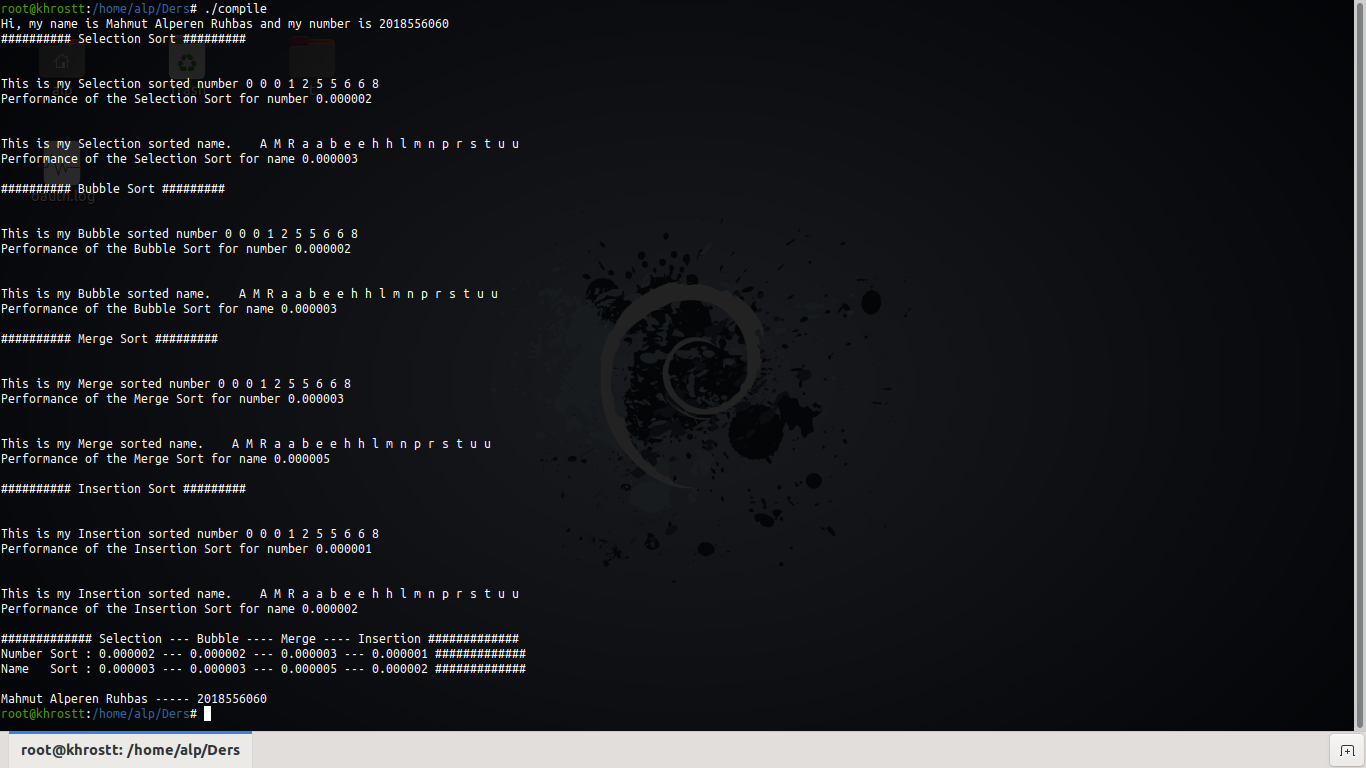
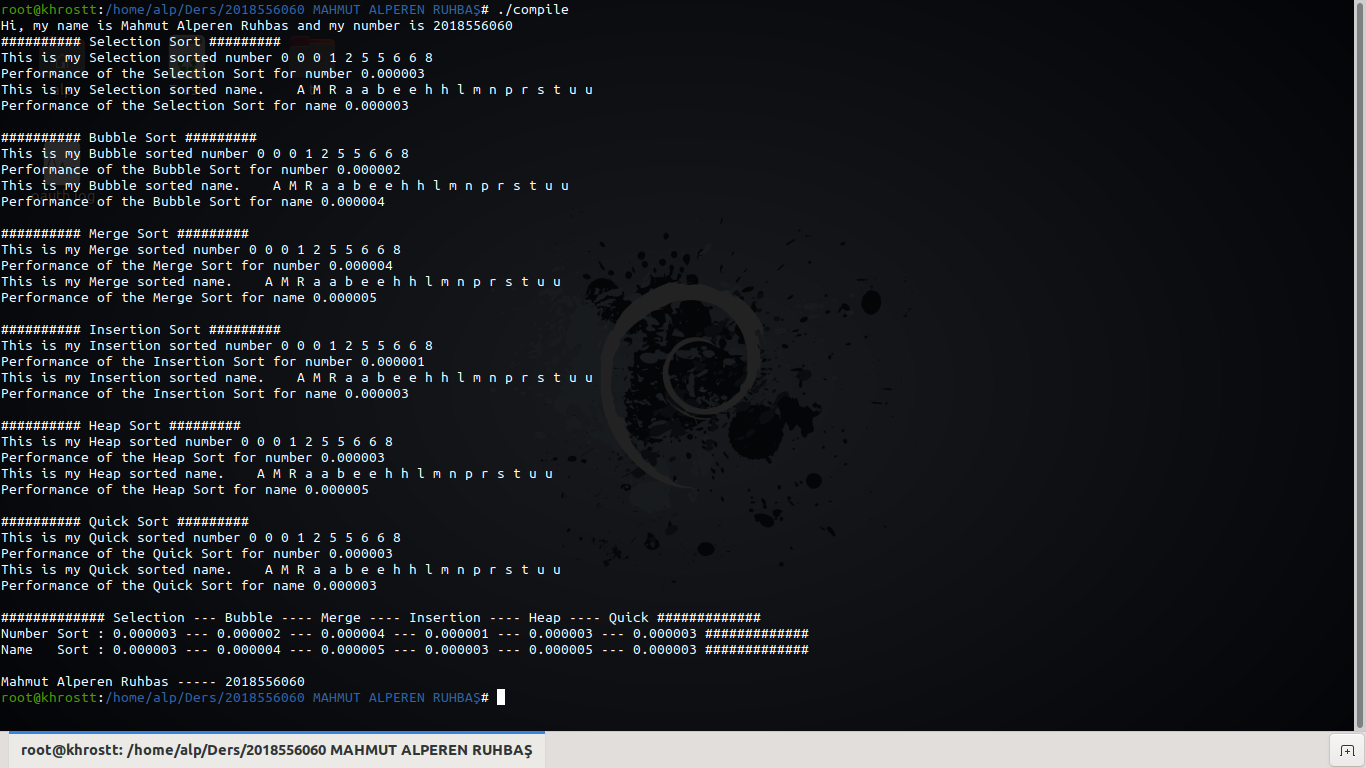
Quick sort and heap sort are added to the C program

diff --git a/Sorting/2018556060 MAHMUT ALPEREN RUHBAŞ/sorting.c b/Sorting/2018556060 MAHMUT ALPEREN RUHBAŞ/sorting.c
@@ -7,12 +7,12 @@
 void number_printer(char number[], int sizeofnum, double timer, char sorttype[])
 {
     printf("########## %s Sort #########", sorttype);
-    printf("\n\n\nThis is my %s sorted number ", sorttype);
+    printf("\nThis is my %s sorted number ", sorttype);
     int k;
     for (k = 0; k < sizeofnum; k++)
         printf("%d ", number[k]);
     putchar('\n');
-    printf("Performance of the %s Sort for number %f \n\n\n", sorttype, (timer / CLOCKS_PER_SEC));
+    printf("Performance of the %s Sort for number %f \n", sorttype, (timer / CLOCKS_PER_SEC));
 }
                                                                 void name_printer(char myname[], int sizeofname, double timer, char sorttype[])
                                                                 {
@@ -143,12 +143,78 @@ void base_merge(char unsorted[], int left, int middle, int right) {
                                                             unsorted[l + 1] = check;
                                                         }
                                                     }
+
+                                                            /////////////////// Heap Sort Function
+void base_heap(char unsorted[], int allsize, int k ) {
+	int temp; int largeone = k; int left = 2 * k + 1; int right = 2 * k + 2;
+	if (unsorted[left] > unsorted[largeone] && left < allsize) 
+	{
+		largeone = left;	
+	}
+	if (unsorted[right] > unsorted[largeone] && right < allsize) 
+	{
+		largeone = right;	
+	}
+	if (largeone != k) 
+	{
+        temp = unsorted[k];
+        unsorted[k] = unsorted[largeone];
+        unsorted[largeone] = temp;
+		base_heap(unsorted, allsize, largeone);
+	}
+}
+                                                    void heap_sort(char unsorted[], int allsize){
+                                                        int l, temp;
+                                                        for(l= allsize/2-1; l>=0 ;l--)
+                                                        {
+                                                            base_heap(unsorted, allsize, l);
+                                                        }
+                                                        int k;
+                                                        for (k = allsize-1; k > 0 ;k--)
+                                                        {
+                                                            temp = unsorted[0];
+                                                            unsorted[0] = unsorted[k];
+                                                            unsorted[k] = temp;
+                                                            base_heap(unsorted, k, 0);
+                                                        }
+                                                    }
+                                                            /////////////////// Quick Sort Function
+void quick_sort(char unsorted[],int first,int last){
+    int k, l, pivot, temp;
+    pivot=first;
+    if(last>first){
+        pivot=first;
+        k=first;
+        l=last;
+        while (k<l){
+            while (unsorted[k]<=unsorted[pivot] && k<last && l>k)
+            {
+                k++;
+            }
+            while (unsorted[l]>=unsorted[pivot] && l>=first && l>=k)
+            {
+                l--;
+            }
+            if (l>k)
+            { 
+                temp=unsorted[k];
+                unsorted[k]=unsorted[l];
+                unsorted[l]=temp;
+            }
+        }
+        temp=unsorted[l];
+        unsorted[l]=unsorted[pivot];
+        unsorted[pivot]=temp;
+        quick_sort(unsorted,first,l-1);
+        quick_sort(unsorted,l+1,last);
+    }
+}
                                                             /////////////////// Total Performance List
-void performance_list(double selection, double bubble, double merge, double invertion, double selection2, double bubble2, double merge2, double invertion2)
+void performance_list(double selection, double bubble, double merge, double invertion, double heap, double quick, double selection2, double bubble2, double merge2, double invertion2, double heap2, double quick2)
 {
-    printf("############# Selection --- Bubble ---- Merge ---- Insertion #############\n");
-    printf("Number Sort : %f --- %f --- %f --- %f #############\n", (selection / CLOCKS_PER_SEC), (bubble / CLOCKS_PER_SEC), (merge / CLOCKS_PER_SEC), (invertion / CLOCKS_PER_SEC));
-    printf("Name   Sort : %f --- %f --- %f --- %f #############\n", (selection2 / CLOCKS_PER_SEC), (bubble2 / CLOCKS_PER_SEC), (merge2 / CLOCKS_PER_SEC), (invertion2 / CLOCKS_PER_SEC));
+    printf("############# Selection --- Bubble ---- Merge ---- Insertion ---- Heap ---- Quick #############\n");
+    printf("Number Sort : %f --- %f --- %f --- %f --- %f --- %f #############\n", (selection / CLOCKS_PER_SEC), (bubble / CLOCKS_PER_SEC), (merge / CLOCKS_PER_SEC), (invertion / CLOCKS_PER_SEC), (heap / CLOCKS_PER_SEC), (quick / CLOCKS_PER_SEC));
+    printf("Name   Sort : %f --- %f --- %f --- %f --- %f --- %f #############\n", (selection2 / CLOCKS_PER_SEC), (bubble2 / CLOCKS_PER_SEC), (merge2 / CLOCKS_PER_SEC), (invertion2 / CLOCKS_PER_SEC), (heap2 / CLOCKS_PER_SEC), (quick2 / CLOCKS_PER_SEC));
 }
                                                             /////////////////// Main Function
 int main()
@@ -158,10 +224,14 @@ int main()
     clock_t bubbletimer;
     clock_t mergetimer;
     clock_t invertiontimer;
+    clock_t heaptimer;
+    clock_t quicktimer;
     clock_t selectiontimer2;
     clock_t bubbletimer2;
     clock_t mergetimer2;
     clock_t invertiontimer2;
+    clock_t heaptimer2;
+    clock_t quicktimer2;
     char name[] = "Mahmut Alperen Ruhbas";
     char num[] = {2, 0, 1, 8, 5, 5, 6, 0, 6, 0};
     int SIZEOFNUMBER = sizeof(num) / sizeof(num[0]);
@@ -221,8 +291,36 @@ int main()
                                                                                             insertion_sort(insertionname, SIZEOFNAME);
                                                                                         invertiontimer2 = (double)clock()-invertiontimer2;
                                                                                             name_printer(insertionname, SIZEOFNAME, ((double)invertiontimer2), sorttype);
+                                                            /////////////////// Heap Sort
+                                                                memset(sorttype, 0, sizeof(sorttype));
+                                                                strcat(sorttype, "Heap");
+                                                                char heapname[SIZEOFNAME], heapnumber[SIZEOFNUMBER];
+                                                                strcpy(heapname, name);
+                                                                memcpy(heapnumber, num, SIZEOFNUMBER);
+                                                                heaptimer = (double)clock();
+                                                                    heap_sort(heapnumber, SIZEOFNUMBER);
+                                                                heaptimer = (double)clock()-heaptimer;
+                                                                    number_printer(heapnumber, SIZEOFNUMBER, ((double)heaptimer), sorttype);
+                                                                heaptimer2 = (double)clock();
+                                                                    heap_sort(heapname, SIZEOFNAME);
+                                                                heaptimer2 = (double)clock()-heaptimer2;
+                                                                    name_printer(heapname, SIZEOFNAME, ((double)heaptimer2), sorttype);
+                                                            /////////////////// Quick Sort
+                                            memset(sorttype, 0, sizeof(sorttype));
+                                            strcat(sorttype, "Quick");
+                                            char quickname[SIZEOFNAME], quicknumber[SIZEOFNUMBER];
+                                            strcpy(quickname, name);
+                                            memcpy(quicknumber, num, SIZEOFNUMBER);
+                                            quicktimer = (double)clock();
+                                                quick_sort(quicknumber, 0, SIZEOFNUMBER - 1);
+                                            quicktimer = (double)clock()-quicktimer;
+                                                number_printer(quicknumber, SIZEOFNUMBER, ((double)quicktimer), sorttype);
+                                            quicktimer2 = (double)clock();
+                                                quick_sort(quickname, 0, SIZEOFNAME - 1);
+                                            quicktimer2 = (double)clock()-quicktimer2;
+                                                name_printer(quickname, SIZEOFNAME, ((double)quicktimer2), sorttype);
 /////////////////// Listing all sorting performance
-                performance_list(((double)selectiontimer), ((double)bubbletimer), ((double)mergetimer), ((double)invertiontimer), ((double)selectiontimer2), ((double)bubbletimer2), ((double)mergetimer2), ((double)invertiontimer2));
+                performance_list(((double)selectiontimer), ((double)bubbletimer), ((double)mergetimer), ((double)invertiontimer), ((double)heaptimer), ((double)quicktimer), ((double)selectiontimer2), ((double)bubbletimer2), ((double)mergetimer2), ((double)invertiontimer2), ((double)heaptimer2), ((double)quicktimer2));
                 printf("\nMahmut Alperen Ruhbas ----- 2018556060\n");
     return 0;
 }
